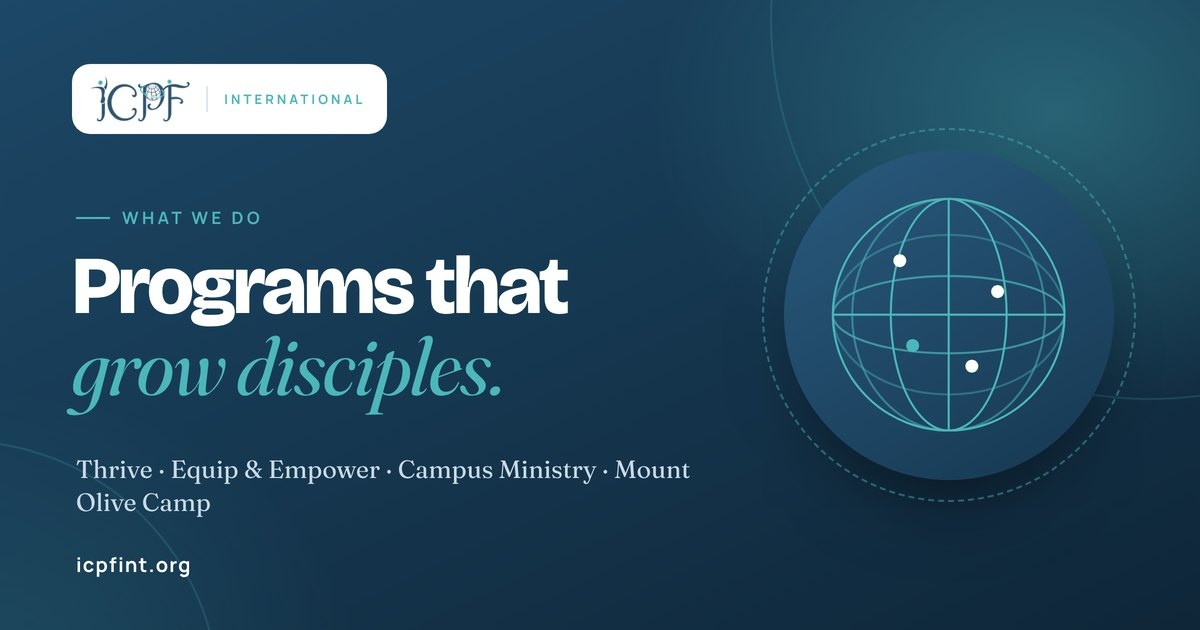
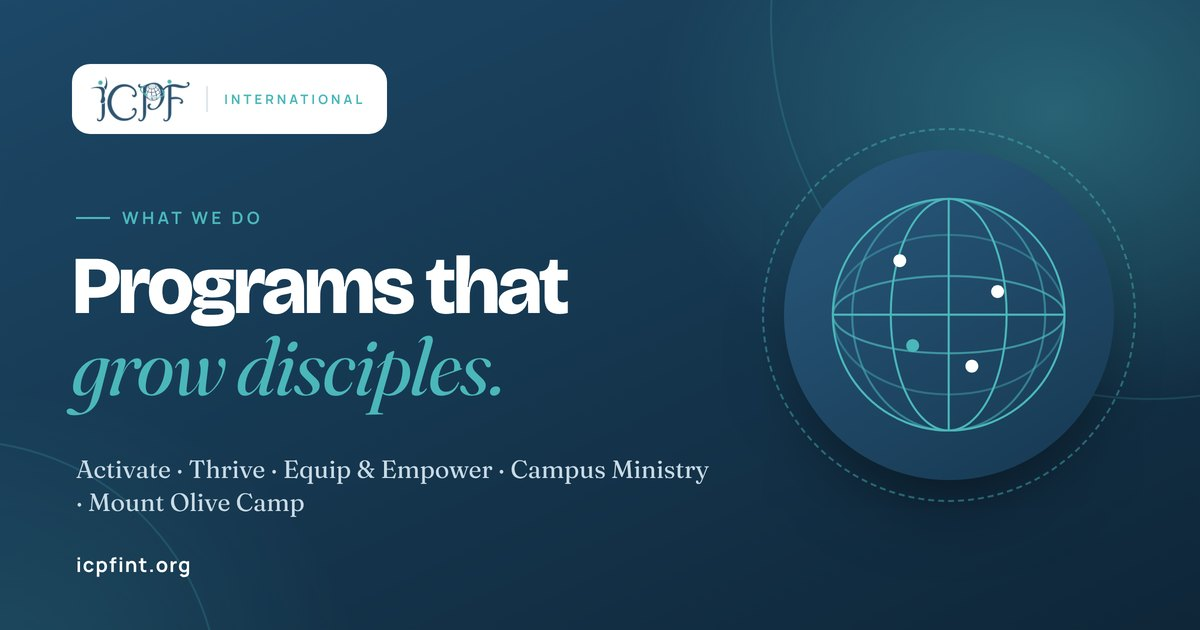
Programs

Changed region(s): [[0.0617, 0.7238, 0.5858, 0.8143]]

diff --git a/programs.html b/programs.html
@@ -4,14 +4,14 @@
 <meta charset="UTF-8">
 <meta name="viewport" content="width=device-width, initial-scale=1">
 <title>Programs | ICPF International</title>
-<meta name="description" content="Thrive, Equip & Empower, Campus Ministry and the new Mount Olive Camp Center: how ICPF International disciples young people.">
+<meta name="description" content="Activate, Thrive, Equip & Empower, Campus Ministry and the new Mount Olive Camp Center: how ICPF International disciples young people.">
 <link rel="canonical" href="https://icpfint.org/programs">
 <meta property="og:type" content="website">
 <meta property="og:site_name" content="ICPF International">
 <meta property="og:locale" content="en_US">
 <meta property="og:url" content="https://icpfint.org/programs">
 <meta property="og:title" content="Programs | ICPF International">
-<meta property="og:description" content="Thrive, Equip &amp; Empower, Campus Ministry and the new Mount Olive Camp Center: how ICPF International disciples young people.">
+<meta property="og:description" content="Activate, Thrive, Equip &amp; Empower, Campus Ministry and the new Mount Olive Camp Center: how ICPF International disciples young people.">
 <meta property="og:image" content="https://icpfint.org/assets/images/share/programs.jpg">
 <meta property="og:image:secure_url" content="https://icpfint.org/assets/images/share/programs.jpg">
 <meta property="og:image:type" content="image/jpeg">
@@ -20,7 +20,7 @@
 <meta property="og:image:alt" content="Programs | ICPF International">
 <meta name="twitter:card" content="summary_large_image">
 <meta name="twitter:title" content="Programs | ICPF International">
-<meta name="twitter:description" content="Thrive, Equip &amp; Empower, Campus Ministry and the new Mount Olive Camp Center: how ICPF International disciples young people.">
+<meta name="twitter:description" content="Activate, Thrive, Equip &amp; Empower, Campus Ministry and the new Mount Olive Camp Center: how ICPF International disciples young people.">
 <meta name="twitter:image" content="https://icpfint.org/assets/images/share/programs.jpg">
 <meta name="twitter:image:alt" content="Programs | ICPF International">
 <meta name="theme-color" content="#163851">
@@ -57,13 +57,13 @@
     <div class="crumbs"><a href="./">Home</a><span>/</span><span>Programs</span></div>
     <span class="eyebrow">What we do</span>
     <h1>Programs that <em>grow</em> disciples.</h1>
-    <p class="lead">Reaching people worldwide with the love of Jesus Christ through Thrive, Equip &amp; Empower, Medical Missions, and Samaritan's Feet camps.</p>
+    <p class="lead">Reaching people worldwide with the love of Jesus Christ through Activate, Thrive, Equip &amp; Empower, Medical Missions, and Samaritan's Feet camps.</p>
   </div>
 </section>
 
 <section class="section-tight"><div class="wrap">
   <h2 class="sr-only">Our core programs</h2>
-<div class="prog reveal" id="thrive"><div class="n">01</div><div><span class="tag">Program</span><h3>Thrive</h3><p>The ICPF International Thrive program helps young people grow deep roots in faith and flourish in every season of life.</p></div><span class="pill">Youth</span></div><div class="prog reveal" id="equip-empower"><div class="n">02</div><div><span class="tag">E2 Program</span><h3>Equip &amp; Empower</h3><p>Training emerging leaders in discipleship, servant leadership, and practical evangelism, then releasing them to lead.</p></div><span class="pill">Leaders</span></div><div class="prog reveal" id="campus-ministry"><div class="n">03</div><div><span class="tag">Outreach</span><h3>Campus Ministry</h3><p>Building student-led communities of faith on campuses where the next generation is being shaped.</p></div><span class="pill">Students</span></div><div class="prog reveal" id="mount-olive"><div class="n">04</div><div><span class="tag">Coming soon</span><h3>Mount Olive Camp Center</h3><p>A new camp site on 70 acres of land in Mabank, Texas, USA.</p></div><span class="pill dark">Mabank, TX</span></div>
+<div class="prog reveal" id="activate"><div class="n">01</div><div><span class="tag">Training</span><h3>Activate</h3><p>Equipping student leaders to know the Word, share Christ, and serve faithfully in the power of the Holy Spirit.</p></div><span class="pill">Discipleship</span></div><div class="prog reveal" id="thrive"><div class="n">02</div><div><span class="tag">Program</span><h3>Thrive</h3><p>The ICPF International Thrive program helps young people grow deep roots in faith and flourish in every season of life.</p></div><span class="pill">Youth</span></div><div class="prog reveal" id="equip-empower"><div class="n">03</div><div><span class="tag">E2 Program</span><h3>Equip &amp; Empower</h3><p>Training emerging leaders in discipleship, servant leadership, and practical evangelism, then releasing them to lead.</p></div><span class="pill">Leaders</span></div><div class="prog reveal" id="campus-ministry"><div class="n">04</div><div><span class="tag">Outreach</span><h3>Campus Ministry</h3><p>Building student-led communities of faith on campuses where the next generation is being shaped.</p></div><span class="pill">Students</span></div><div class="prog reveal" id="mount-olive"><div class="n">05</div><div><span class="tag">Coming soon</span><h3>Mount Olive Camp Center</h3><p>A new camp site on 70 acres of land in Mabank, Texas, USA.</p></div><span class="pill dark">Mabank, TX</span></div>
 </div></section>
 
 <section class="programs">

diff --git a/index.html b/index.html
@@ -146,9 +146,16 @@
           <span class="eyebrow">Key features</span>
           <h2>A few things we're <em>great</em> at.</h2>
         </div>
-        <p class="lead">Reaching people worldwide with the love of Jesus Christ through Thrive, Equip &amp; Empower, Medical Missions, and Samaritan's Feet camps.</p>
+        <p class="lead">Reaching people worldwide with the love of Jesus Christ through Activate, Thrive, Equip &amp; Empower, Medical Missions, and Samaritan's Feet camps.</p>
       </div>
       <div class="cards">
+        <article class="card reveal">
+          <div class="icon"><svg viewBox="0 0 24 24" fill="none" stroke="currentColor" stroke-width="1.8" stroke-linecap="round" stroke-linejoin="round"><path d="M8.5 14.5A2.5 2.5 0 0 0 11 12c0-1.38-.5-2-1-3-1.07-2.14-.22-4.05 2-6 .5 2.5 2 4.9 4 6.5 2 1.6 3 3.5 3 5.5a7 7 0 1 1-14 0c0-1.15.43-2.29 1-3a2.5 2.5 0 0 0 2.5 2.5z"/></svg></div>
+          <span class="tag">Training</span>
+          <h3>Activate</h3>
+          <p>Equipping student leaders to know the Word, share Christ, and serve faithfully in the power of the Holy Spirit.</p>
+          <a href="programs#activate" class="more">Learn more &rarr;</a>
+        </article>
         <article class="card reveal">
           <div class="icon"><svg viewBox="0 0 24 24" fill="none" stroke="currentColor" stroke-width="1.8" stroke-linecap="round" stroke-linejoin="round"><path d="M12 22V12"/><path d="M12 12C12 7 8 4 4 4c0 5 3 8 8 8z"/><path d="M12 14c0-4 3-7 8-7 0 4-3 7-8 7z"/></svg></div>
           <span class="tag">Program</span>

diff --git a/assets/css/styles.css b/assets/css/styles.css
@@ -619,6 +619,13 @@ footer .f-h{font-family:var(--f-sans);font-weight:700;font-size:.75rem;letter-sp
 /* Visible to screen readers only */
 .sr-only{position:absolute!important;width:1px;height:1px;padding:0;margin:-1px;overflow:hidden;clip:rect(0,0,0,0);white-space:nowrap;border:0}
 
+/* Home program cards: 5 cards -> 3 on top, 2 wider below */
+.cards{grid-template-columns:repeat(6,1fr)}
+.cards .card{grid-column:span 2}
+.cards .card:nth-child(n+4){grid-column:span 3;min-height:260px}
+@media (max-width:1080px){.cards{grid-template-columns:1fr 1fr}.cards .card,.cards .card:nth-child(n+4){grid-column:auto}.cards .card:last-child{grid-column:1/-1}}
+@media (max-width:600px){.cards{grid-template-columns:1fr}.cards .card:last-child{grid-column:auto}}
+
 /* ===== Interactive country map ===== */
 .map-wrap{display:grid;grid-template-columns:1fr 270px;gap:24px;align-items:stretch}
 .map-card{position:relative;background:var(--navy-deep);border-radius:28px;padding:34px 26px 64px;overflow:hidden}

diff --git a/donate.html b/donate.html
@@ -131,7 +131,7 @@
   <div class="where">
     <a href="berean-project" class="reveal"><span class="tag">Berean Project</span><b>Bibles for students</b><span>$10 provides a full Bible or 3 New Testaments.</span></a>
     <a href="programs#mount-olive" class="reveal"><span class="tag">Mount Olive</span><b>Camp Center</b><span>A new camp site on 70 acres in Mabank, Texas.</span></a>
-    <a href="programs" class="reveal"><span class="tag">Programs</span><b>Youth &amp; missions</b><span>Thrive, Equip &amp; Empower, campus ministry and missions.</span></a>
+    <a href="programs" class="reveal"><span class="tag">Programs</span><b>Youth &amp; missions</b><span>Activate, Thrive, Equip &amp; Empower, campus ministry and missions.</span></a>
   </div>
 </div></section>
 <div class="cta" style="padding-top:110px"><div class="wrap"><div class="cta-box reveal">

diff --git a/about.html b/about.html
@@ -79,7 +79,7 @@
   <div class="wrap">
     <div class="stats reveal">
       <div class="stat"><b>10</b><span>Countries reached</span></div>
-      <div class="stat"><b>4</b><span>Core programs</span></div>
+      <div class="stat"><b>5</b><span>Core programs</span></div>
       <div class="stat"><b>70</b><span>Acres for Mount Olive Camp</span></div>
       <div class="stat"><b>1</b><span>Calling: Reach, Disciple, Send</span></div>
     </div>
